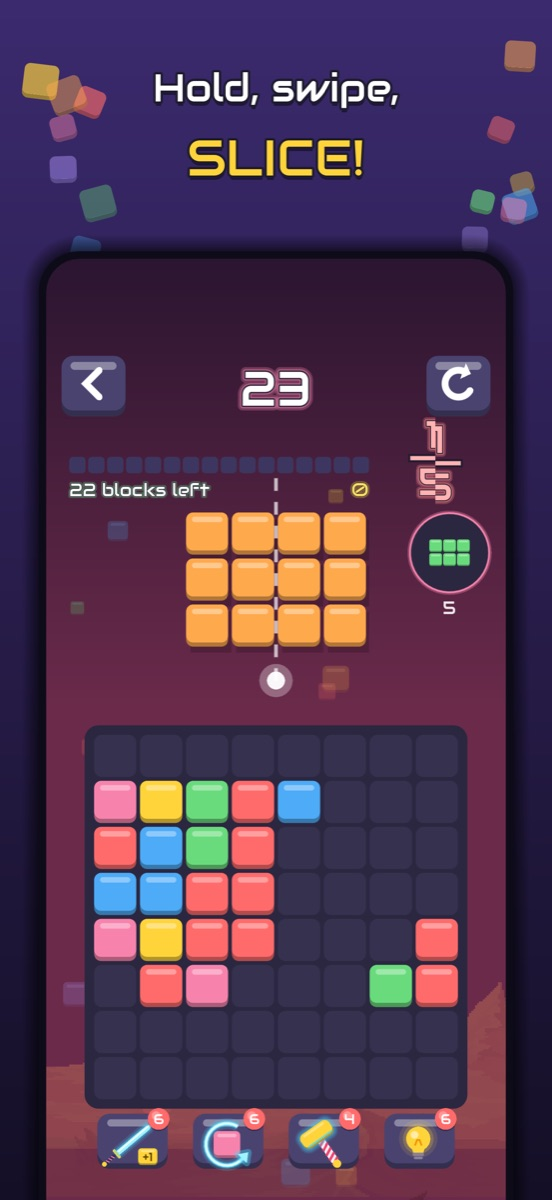
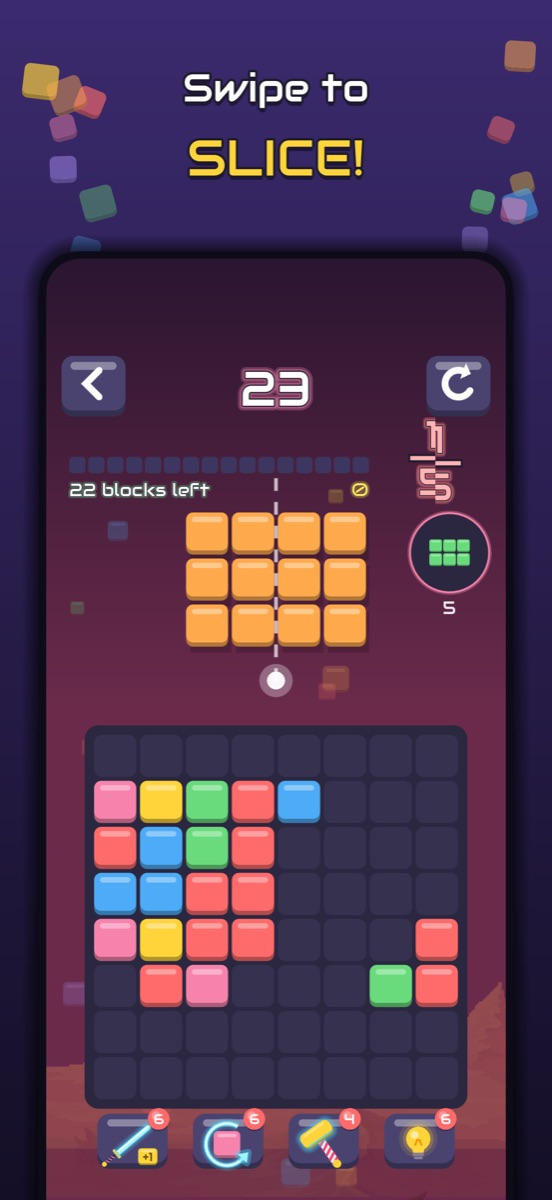
Swipes cut instantly: update how-to-play text and screenshots
Claude-Session: https://claude.ai/code/session_01MX7QfP9zuK4HKGuCLUN1si

Changed region(s): [[0.2772, 0.0617, 0.7391, 0.0925]]

diff --git a/index.html b/index.html
@@ -4,7 +4,7 @@
 <meta charset="utf-8">
 <meta name="viewport" content="width=device-width, initial-scale=1">
 <title>Slice & Fill: Block Puzzle Game for iPhone</title>
-<meta name="description" content="Slice & Fill is a free block puzzle game for iPhone. Hold to charge your blade, swipe to slice shapes, and fill the board. 436 levels across 13 worlds. Clear the board in the fewest cuts for 3 stars.">
+<meta name="description" content="Slice & Fill is a free block puzzle game for iPhone. Swipe to slice shapes and fill the board. 436 levels across 13 worlds. Clear the board in the fewest cuts for 3 stars.">
 <link rel="canonical" href="https://2kcoder-trader.github.io/">
 <link rel="icon" href="img/icon.png">
 <meta property="og:title" content="Slice & Fill: Slice blocks. Fill the board.">
@@ -22,7 +22,7 @@
   "name": "Slice & Fill",
   "url": "https://2kcoder-trader.github.io/",
   "image": "https://2kcoder-trader.github.io/img/1_hero.jpg",
-  "description": "A block puzzle game where you slice shapes into pieces and fill the board. Hold to charge a cut, swipe to slice, drag the pieces into place. 436 levels across 13 worlds; clear the board in the fewest cuts for 3 stars.",
+  "description": "A block puzzle game where you slice shapes into pieces and fill the board. Swipe to slice, drag the pieces into place. 436 levels across 13 worlds; clear the board in the fewest cuts for 3 stars.",
   "genre": ["Puzzle", "Block puzzle", "Casual"],
   "gamePlatform": "iPhone",
   "operatingSystem": "iOS",
@@ -118,19 +118,19 @@ footer a{color:var(--muted)}
     <div>
       <div class="blocks" aria-hidden="true"><i style="background:var(--red)"></i><i style="background:var(--orange)"></i><i style="background:var(--gold)"></i><i style="background:var(--green)"></i><i style="background:var(--blue)"></i><i style="background:var(--violet)"></i><i style="background:var(--pink)"></i></div>
       <h1>Slice blocks.<br><span>Fill the board.</span></h1>
-      <p class="lead">A block puzzle where you cut the pieces yourself. Hold to charge your blade, swipe through a shape, and drop every piece where it fits. Clear the board in the fewest cuts for 3 stars.</p>
+      <p class="lead">A block puzzle where you cut the pieces yourself. Swipe through a shape to slice it, then drop every piece where it fits. Clear the board in the fewest cuts for 3 stars.</p>
       <a class="cta" href="#get"><span>Coming soon to iPhone<small>Free · No account needed</small></span></a>
       <p class="note">436 levels · 13 worlds · plays offline</p>
     </div>
-    <img class="phone" src="img/1_hero.jpg" alt="Slice & Fill gameplay: a charged cut about to slice an orange block shape above the board">
+    <img class="phone" src="img/1_hero.jpg" alt="Slice & Fill gameplay: a swipe about to slice an orange block shape above the board">
   </div>
 </div>
 
 <section id="how"><div class="wrap">
   <h2>How to play</h2>
   <div class="steps">
-    <div class="step"><em>1</em><h3>Hold</h3><p>Press on an empty spot until your blade sparks.</p></div>
-    <div class="step"><em>2</em><h3>Swipe</h3><p>Slice through a shape to split it into pieces.</p></div>
+    <div class="step"><em>1</em><h3>Plan</h3><p>Look at the shape and the board. Where should it split?</p></div>
+    <div class="step"><em>2</em><h3>Swipe</h3><p>Slice through the shape to split it into pieces.</p></div>
     <div class="step"><em>3</em><h3>Fill</h3><p>Drag the pieces onto the board until every block is cleared.</p></div>
     <div class="step"><em>4</em><h3>Star</h3><p>Use the fewest cuts to earn all 3 stars.</p></div>
   </div>
@@ -139,7 +139,7 @@ footer a{color:var(--muted)}
 <section><div class="wrap">
   <h2>Screenshots</h2>
   <div class="shots">
-    <img src="img/1_hero.jpg" alt="Hold, swipe, slice: charging a cut through a shape" loading="lazy">
+    <img src="img/1_hero.jpg" alt="Swipe to slice: a cut line through a shape" loading="lazy">
     <img src="img/2_hint.jpg" alt="Drop the pieces and fill the board, with a hint showing where a piece goes" loading="lazy">
     <img src="img/3_results.jpg" alt="Board cleared with 3 stars for using the fewest cuts" loading="lazy">
     <img src="img/4_map.jpg" alt="The level map with 436 levels across 13 worlds" loading="lazy">

diff --git a/support.html b/support.html
@@ -24,7 +24,7 @@ footer{margin-top:40px;color:var(--muted);font-size:14px}footer a{color:var(--mu
 <p class="muted">Opens a form on GitHub (free account needed). Please include your iPhone model and the level number.</p>
 
 <h2>Common questions</h2>
-<div class="card"><b>How do I cut a shape?</b><p>Press and hold on an empty spot until sparks appear (about half a second), then swipe through the shape. Moving before it sparks won't cut. This stops accidental cuts.</p></div>
+<div class="card"><b>How do I cut a shape?</b><p>Start on an empty spot and swipe straight through the shape. Swiping on a piece picks it up instead, so start your swipe just outside it.</p></div>
 <div class="card"><b>How do I get 3 stars?</b><p>Clear the board using the fewest possible cuts. Hold the top bar during a level, or hold a level on the map, to see what each star needs.</p></div>
 <div class="card"><b>I'm stuck on a level.</b><p>Tap Hint to see your best next move. +1 Cut gives you an extra cut, Undo takes back a move, and Hammer smashes blocks you can't reach.</p></div>
 <div class="card"><b>I bought something but didn't get it.</b><p>Purchases go through Apple. Restart the game first. If it's still missing, contact us with the date of purchase, or request a refund through Apple at <a href="https://reportaproblem.apple.com">reportaproblem.apple.com</a>.</p></div>
